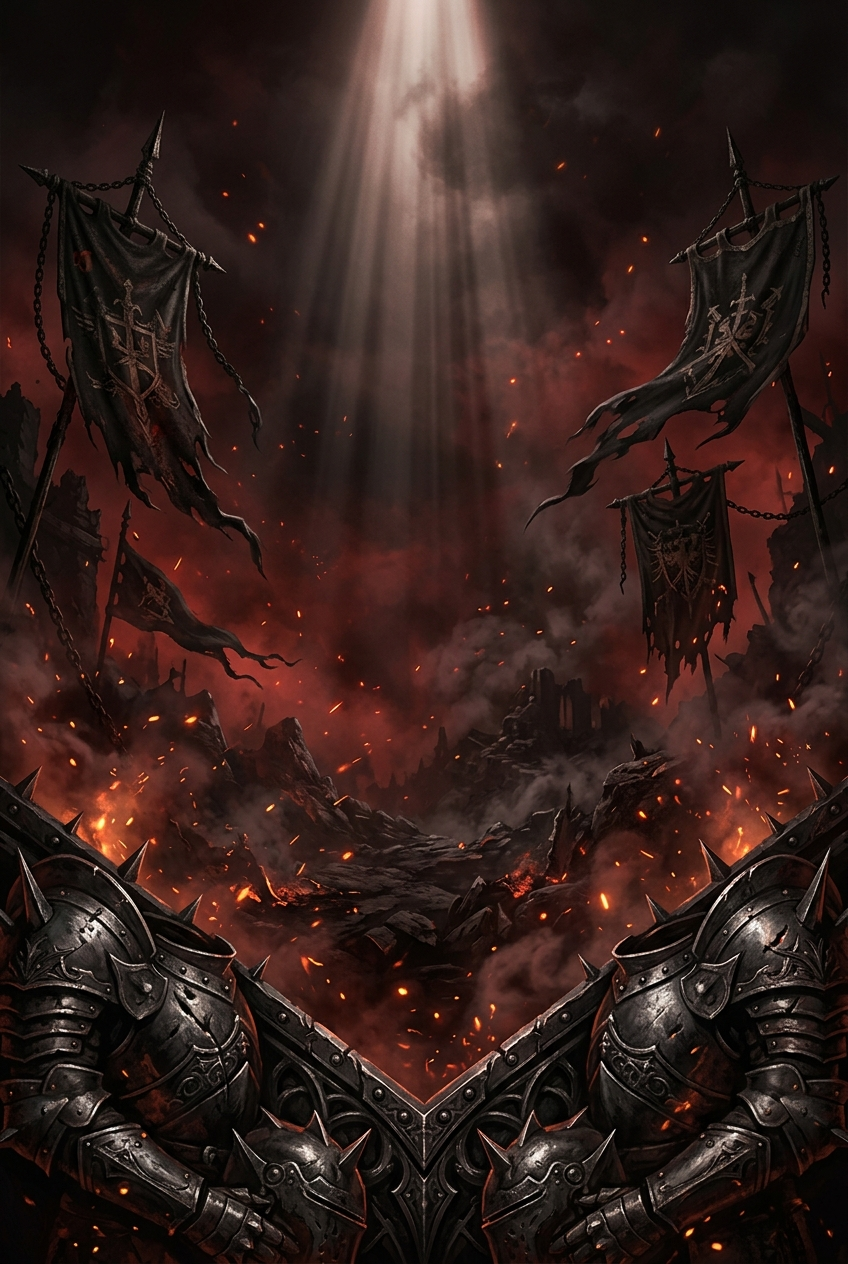
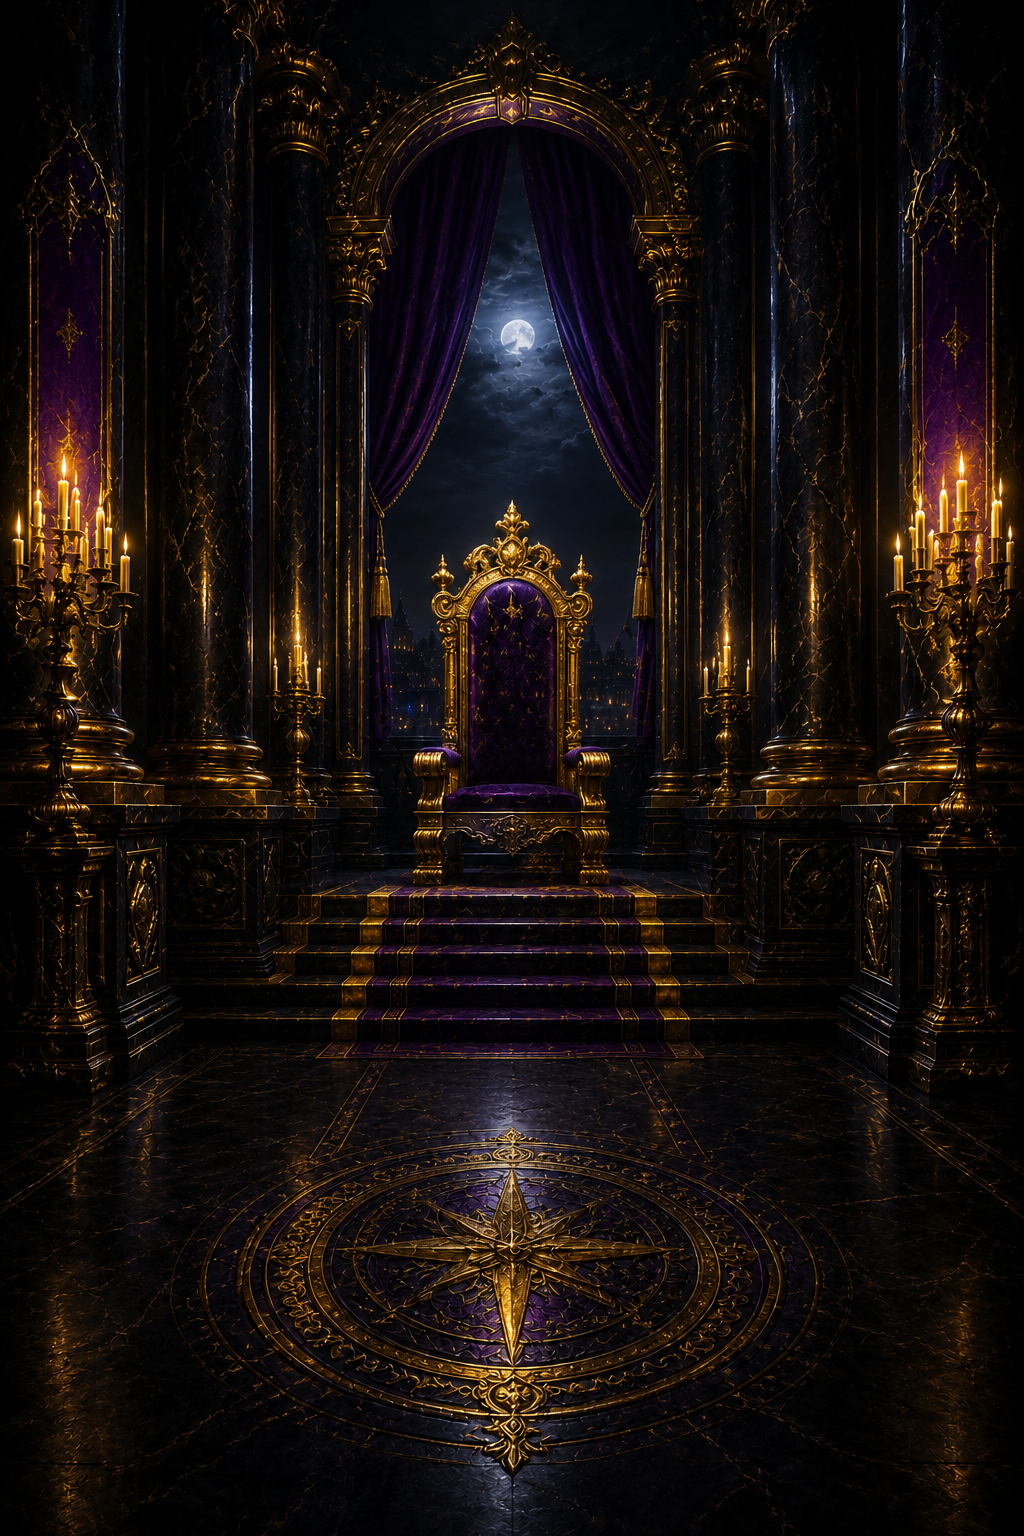
complete graphic chart for leader

diff --git a/src/components/LegendGenerator.tsx b/src/components/LegendGenerator.tsx
@@ -7,6 +7,7 @@ import savantBackground from '../assets/fond_savant.png';
 import artisteBackground from '../assets/fond_artiste.png';
 import fictionnelBackground from '../assets/fond_fictionnel.png';
 import penseurBackground from '../assets/fond_penseur.png';
+import dirigeantBackground from '../assets/fond_dirigeant.png';
 import { 
   Sparkles, 
   Upload, 
@@ -280,7 +281,7 @@ export const CLASSES_CONFIG: Record<ArchetypeType, ClassDesign> = {
     description: "Pouvoir, gouvernance, empire",
     subTypes: ["Roi", "Empereur", "Président", "Dictateur", "Chef révolutionnaire", "Tyran", "Fondateur d'État"],
     colors: "Or royal · Bleu foncé · Rouge noble",
-    fontTitle: "font-bebas text-yellow-500",
+    fontTitle: "font-bebas text-[#c670ff]",
     fontData: "font-montserrat",
     fontCitation: "font-serif",
     background: "Trône · Palais · Capitole",
@@ -381,7 +382,7 @@ const getClassIcon = (classeName: string, iconClassName: string = "w-4 h-4") => 
     case 'Artiste': return <Palette className={`${iconClassName} text-[#820263]`} />;
     case 'Fictionnel': return <Film className={`${iconClassName} text-[#7776bc]`} />;
     case 'Penseur': return <BookOpen className={`${iconClassName} text-[#ffff82]`} />;
-    case 'Dirigeant': return <Crown className={`${iconClassName} text-yellow-500`} />;
+    case 'Dirigeant': return <Crown className={`${iconClassName} text-[#c670ff]`} />;
     case 'Athlète': return <Trophy className={`${iconClassName} text-emerald-400`} />;
     case 'Guerrier':
     default:
@@ -665,26 +666,29 @@ export const getCardAmbiance = (classeStr: string, activeTheme: any): CardAmbian
       
     case 'Dirigeant':
       return {
-        fontTitle: "font-bebas tracking-widest uppercase text-yellow-500",
+        fontTitle: "font-bebas tracking-widest uppercase",
         fontData: "font-montserrat font-semibold",
-        fontCitation: "font-serif",
-        accentColor: "text-yellow-500",
-        accentBorder: "border-yellow-600/80",
-        innerBorder: "border-yellow-700/40",
-        outerBorder: "border-yellow-600/90 shadow-[0_0_30px_rgba(234,179,8,0.6),inset_0_0_15px_rgba(234,179,8,0.3)]",
-        themeBgGradient: "from-blue-950/80 via-yellow-950/20 to-neutral-950/95",
+        fontCitation: "font-playfair italic",
+        accentColor: "text-[#c670ff]",
+        accentBorder: "border-[#c670ff]/80",
+        innerBorder: "border-[#c670ff]/30",
+        outerBorder: "border-[#ffd500]/80 shadow-[0_0_24px_rgba(255, 213, 0,0.45)]",
+        themeBgGradient: "from-[#ffd500]/95 via-[#ffd500]/90 to-[#171413]/95",
         
-        nameSectionStyle: "border-2 border-yellow-600 bg-neutral-950/90 shadow-[0_4px_12px_rgba(234,179,8,0.25)] rounded-lg",
-        textBoxStyle: "border-2 border-yellow-700/60 bg-neutral-950/95 shadow-[inset_0_2px_4px_rgba(0,0,0,0.9)] rounded-lg",
-        portraitBorderStyle: "border-2 border-yellow-600/80 shadow-[0_0_15px_rgba(234,179,8,0.3)]",
-        classBadgeStyle: "border-2 border-yellow-600/80 bg-gradient-to-r from-[#171413] via-[#2a2420] to-[#171413]",
-        specBoxStyle: "border-2 border-yellow-600/50",
-        citationBoxStyle: "border border-yellow-600/20 bg-black/45",
-        iconContainerStyle: "border-yellow-600/80",
-        dividerStyle: "via-yellow-600/20",
-        failleColor: "text-[#ff0000]",
+        nameSectionStyle: "border-2 border-[#c670ff]/80 bg-[#171413]/90 backdrop-blur-[12px] shadow-[0_4px_12px_rgba(0,0,0,0.85)] rounded-xl",
+        textBoxStyle: "border-2 border-[#fdc500]/80 rounded-xl shadow-[inset_0_2px_4px_rgba(0,0,0,0.85),0_4px_6px_rgba(0,0,0,0.5)]",
+        portraitBorderStyle: "border-2 border-[#ffd500]/60 shadow-[0_0_12px_rgba(255, 213, 0,0.45)]",
+        classBadgeStyle: "border-2 border-[#ffd500]/80 bg-gradient-to-r from-[#171413] via-[#2a2420] to-[#171413]",
+        specBoxStyle: "border-2 border-[#525174]/60",
+        citationBoxStyle: "border border-[#fdc500]/50 bg-[#171413]/55",
+        iconContainerStyle: "border-[#c670ff]/80 shadow-[0_0_8px_rgba(61, 0, 102,0.4)]",
+        dividerStyle: "via-[#fdc500]/30",
+        failleColor: "text-[#c670ff]",
         
-        quoteIconStyle: "text-yellow-500",
+        textBoxBgImage: `linear-gradient(to bottom, rgba(255, 213, 0, 0.08), rgba(23, 20, 19, 0.82)), url(${dirigeantBackground})`,
+        textBoxBgBlendMode: 'normal',
+        quoteIconStyle: "text-[#fdc500] drop-shadow-[0_0_6px_rgba(255, 213, 0,0.6)]",
+        
         cornerStyle: 'rivet',
         showScratches: false,
         showBlood: false,
@@ -1034,6 +1038,7 @@ const backgroundMap = {
   Artiste: artisteBackground,
   Fictionnel: fictionnelBackground,
   Penseur: penseurBackground,
+  Dirigeant: dirigeantBackground,
 };
 
 const background = backgroundMap[mainClass] ?? cardBackground;

diff --git a/src/lib/legendGeneratorLib.tsx b/src/lib/legendGeneratorLib.tsx
@@ -281,7 +281,7 @@ export const CLASS_THEMES: Record<string, SimpleClassTheme> = {
   Artiste:     { primary: '#820263', secondary: '#fb8b24', accent: '#d90368', background: '#0a0008', danger: '#ff0000' },
   Fictionnel:  { primary: '#7776bc', secondary: '#fffbdb', accent: '#cdc7e5', background: '#0d0a1a', danger: '#ff0000' },
   Penseur:     { primary: '#d97706', secondary: '#FFFF82', accent: '#A16207', background: '#1c1917', danger: '#ff0000' },
-  Dirigeant:   { primary: '#eab308', secondary: '#ca8a04', accent: '#eab308', background: '#0a0a0a', danger: '#ff0000' },
+  Dirigeant:   { primary: '#ffd500', secondary: '#5c0099', accent: '#fdc500', background: '#0a0a0a', danger: '#ff0000' },
   Athlète:     { primary: '#10b981', secondary: '#059669', accent: '#10b981', background: '#0a0f0d', danger: '#ff0000' },
 };
 